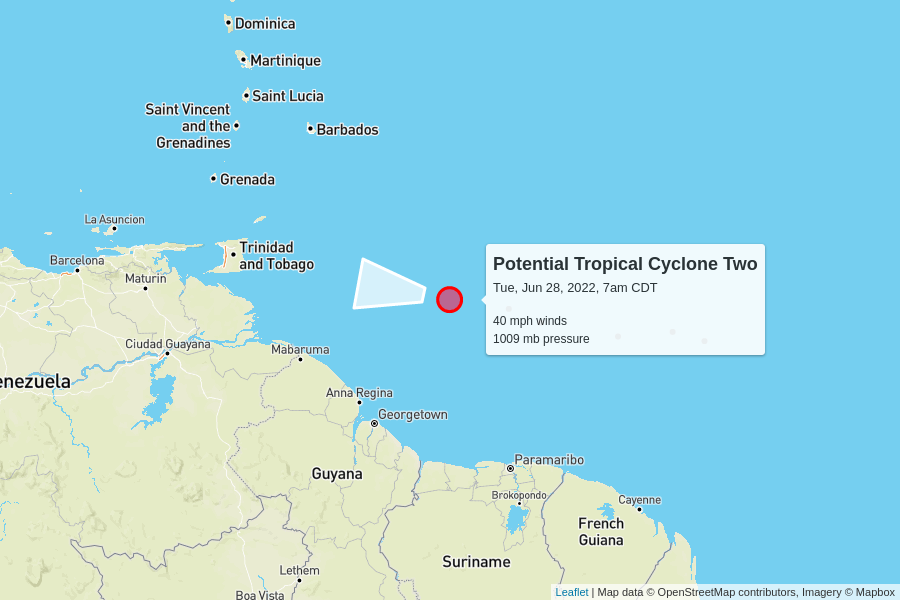
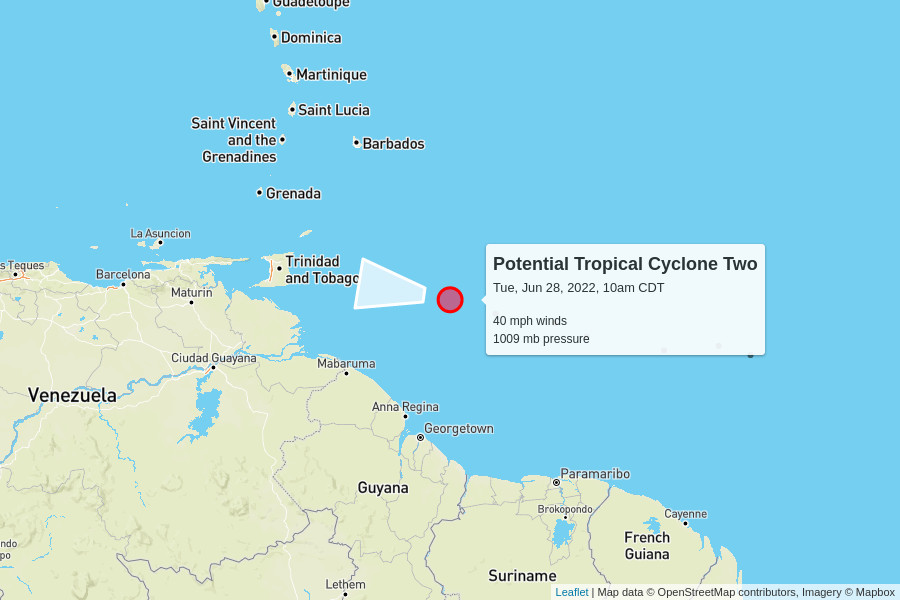
automatic update

diff --git a/docs/index.html b/docs/index.html
@@ -100,7 +100,7 @@
         <td colspan="6" class="storm category-0" >
           <h2>
             Potential Tropical Cyclone Two
-            <p class="updated">last updated <span data-time>2022-06-28T12:00:00.000Z</span></p>
+            <p class="updated">last updated <span data-time>2022-06-28T15:00:00.000Z</span></p>
           </h2>
         </td>
       </tr>
